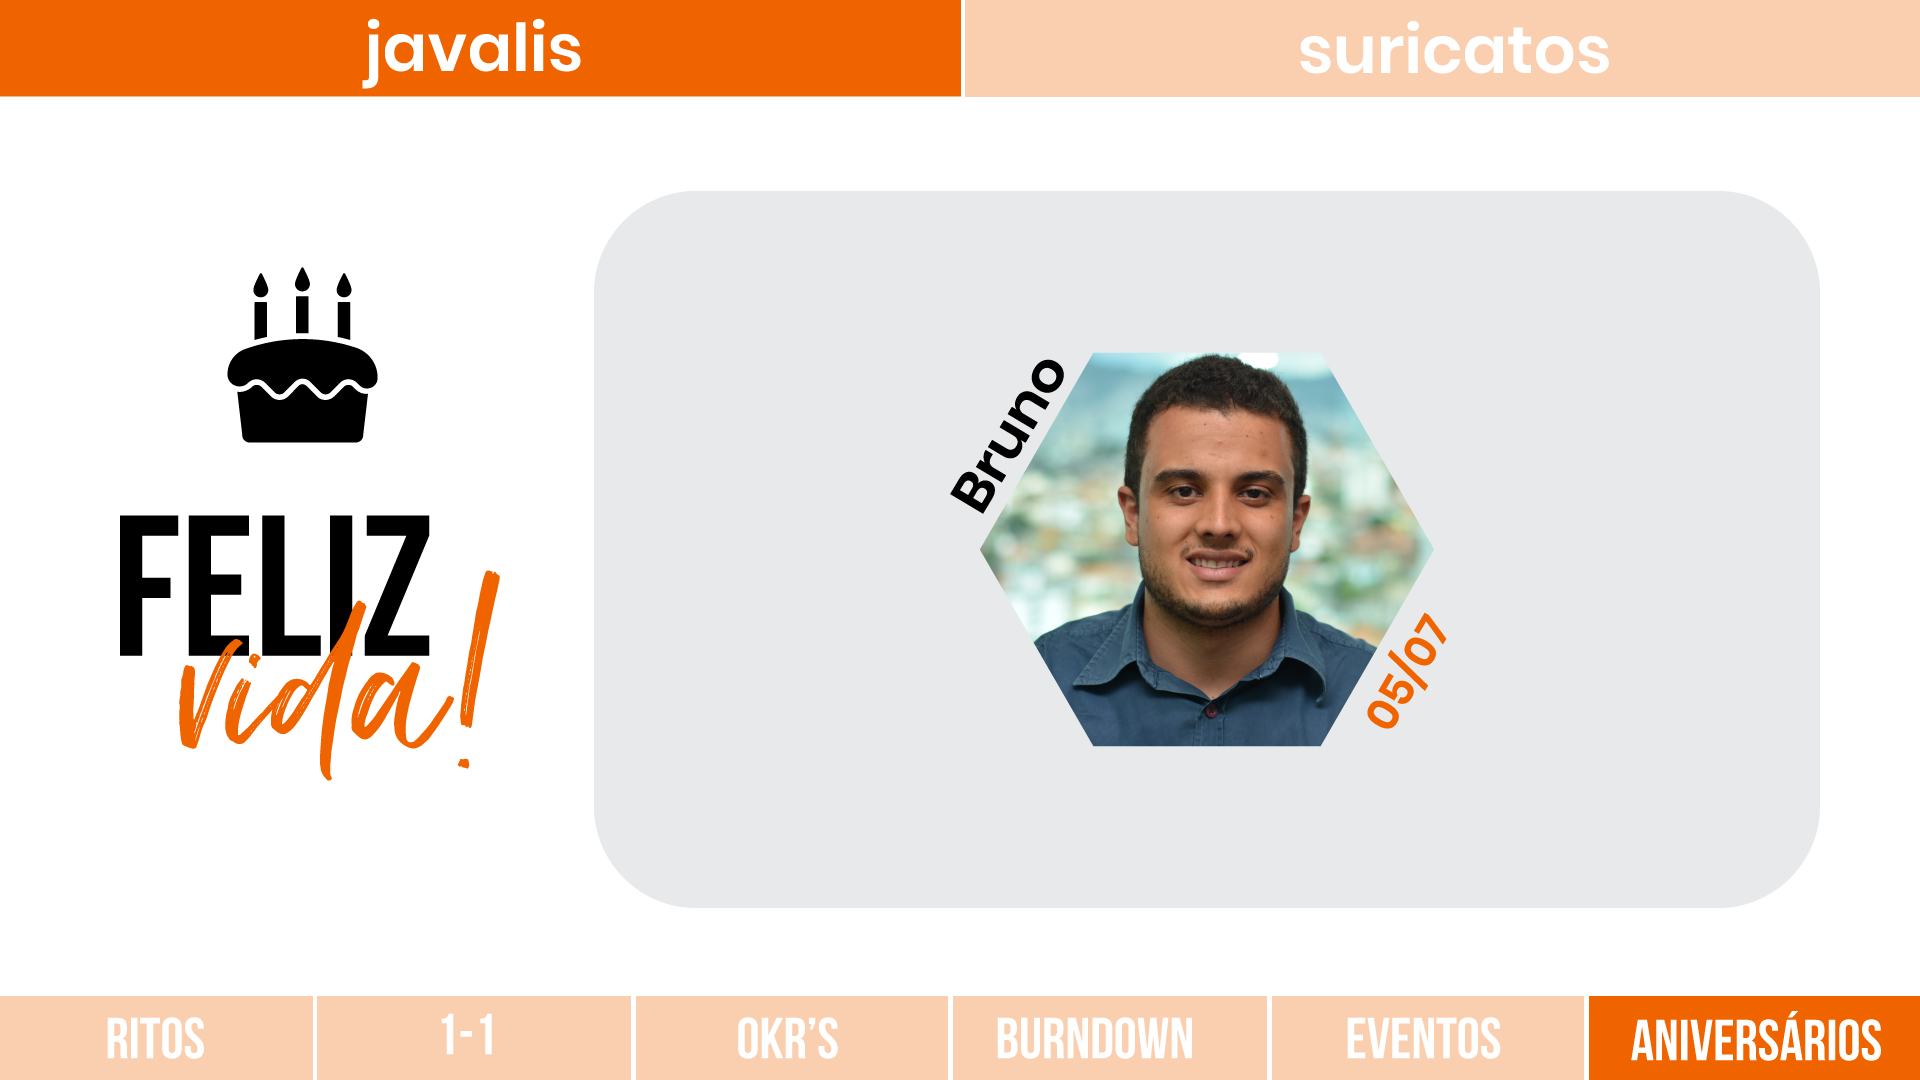
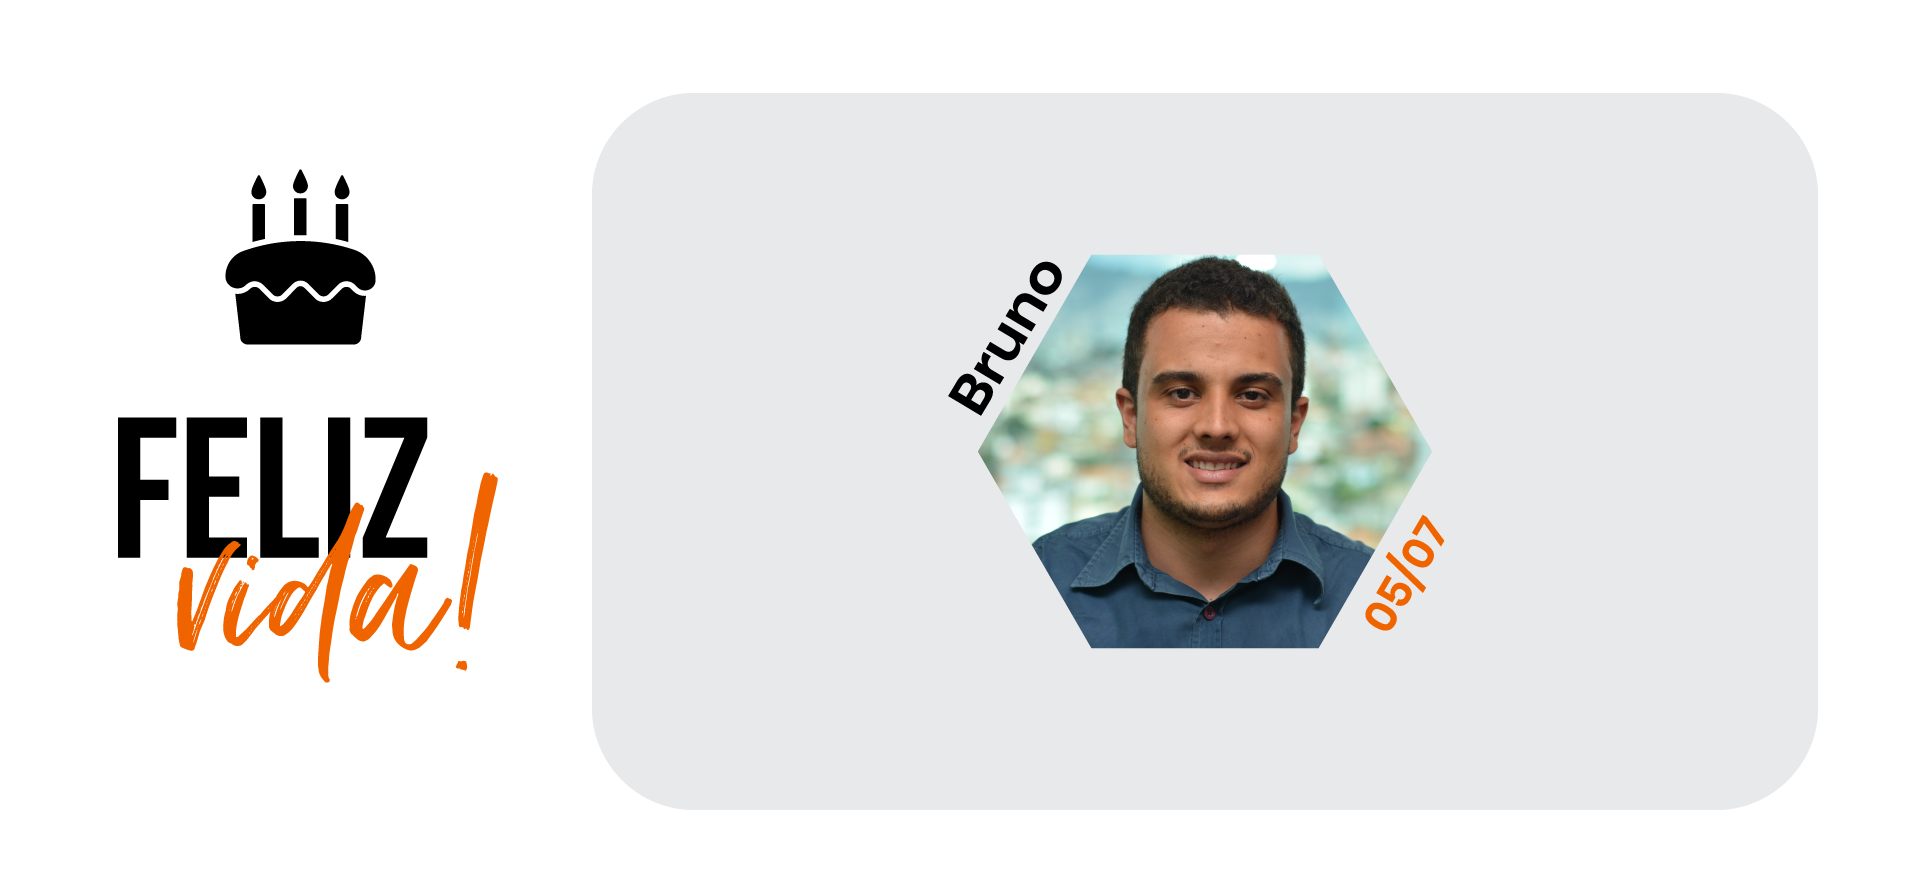
uptade bday

diff --git a/subpages/aniversarios-javalis.html b/subpages/aniversarios-javalis.html
@@ -9,6 +9,8 @@
             font: 12pt arial;
             display: flex;
             background-color: #ffffff;
+            margin: 0;
+            padding: 0;
         }
 
         .bga {
@@ -20,8 +22,8 @@
 
         .image {
             margin: auto;
-            width: inherit;
-            height: inherit;
+            width: 90%;
+            height: 90%;
         }
 
     </style>

diff --git a/subpages/aniversarios-suricatos.html b/subpages/aniversarios-suricatos.html
@@ -20,8 +20,8 @@
 
         .image {
             margin: auto;
-            width: inherit;
-            height: inherit;
+            width: 90%;
+            height: 90%;
         }
 
     </style>
